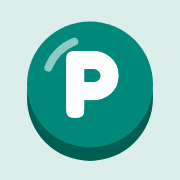
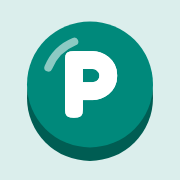
アイコンにてかりを入れて大きくする
小さい版にもてかりを入れ、Pを中央に寄せる。ヘッダーの表示は44pxにする。

diff --git a/scripts/generate_site.py b/scripts/generate_site.py
@@ -294,7 +294,7 @@ header { padding: 24px 16px 12px; max-width: 980px; margin: 0 auto; }
 header h1 a { text-decoration: none; font-size: 22px;
   display: inline-flex; align-items: center; gap: 8px; }
 /* ロゴは文字とほぼ同じ高さに揃える(96px画像を縮小して表示。姉妹サイトと同じ) */
-header h1 img { width: 32px; height: 32px; }
+header h1 img { width: 44px; height: 44px; }
 header p { color: var(--muted); font-size: 13px; margin-top: 4px; }
 nav.crumbs { font-size: 12px; color: var(--muted); margin-top: 8px; }
 nav.crumbs a { text-decoration: none; color: var(--accent); }
@@ -506,7 +506,7 @@ def page_shell(title: str, description: str, body: str, canonical: str, extra_he
 
     # 見出しの左に置くポチシリーズ共通のアイコン。画像が置かれていなければ何も出さない
     logo_img = (
-        '<img src="/assets/logo.png" alt="" width="32" height="32">'
+        '<img src="/assets/logo.png" alt="" width="44" height="44">'
         if has_asset("logo.png") else ""
     )
     icon_tags = []
